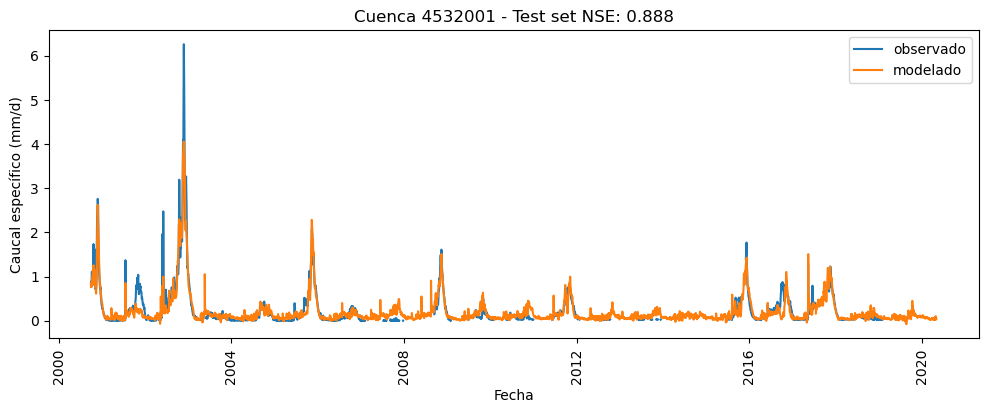
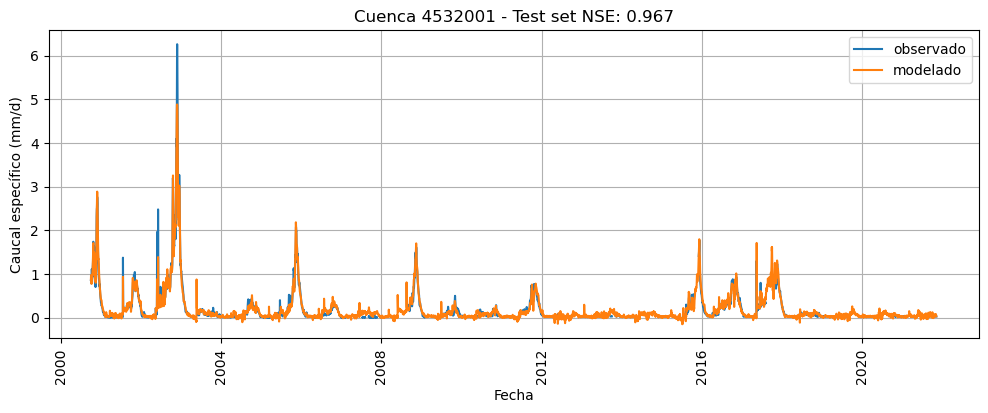
add: combarbala 20 cells

diff --git a/src/LSTM_RR_model.py b/src/LSTM_RR_model.py
@@ -44,7 +44,7 @@ def load_forcing(basin: str) -> Tuple[pd.DataFrame, int]:
     PP=loadDf('pp_basin_79_23.csv').iloc[:,-1]
     Tmax=loadDf('tmaxERA5.csv').iloc[:,-1]
     Tmin=loadDf('tminERA5.csv').iloc[:,-1]
-    idx=pd.date_range('1979-01-02','2020-04-30',freq='D')
+    idx=pd.date_range('1979-01-02','2021-11-05',freq='D')
     idx=idx[idx>='1979-01-02']
     swe=loadDf('SWE_basin_79_23.csv').loc[idx]
     sca=loadDf('SCA_basin_79_23.csv').loc[idx]
@@ -397,7 +397,7 @@ def calc_nse(obs: np.array, sim: np.array) -> float:
 def main():
     #%%
     basin = '4532001' # can be changed to any 8-digit basin id contained in the CAMELS data set
-    hidden_size = 10 # Number of LSTM cells
+    hidden_size = 20 # Number of LSTM cells
     dropout_rate = 0.0 # Dropout rate of the final fully connected Layer [0.0, 1.0]
     learning_rate = 1e-3 # Learning rate used to update the weights
     sequence_length = 365 # Length of the meteorological record provided to the network
@@ -407,7 +407,7 @@ def main():
     ##############
 
     # Training data
-    start_date = pd.to_datetime("1979-01-02", format="%Y-%m-%d")
+    start_date = pd.to_datetime("1989-01-02", format="%Y-%m-%d")
     end_date = pd.to_datetime("2020-04-30", format="%Y-%m-%d")
     ds_train = CamelsTXT(basin, seq_length=sequence_length, period="train", dates=[start_date, end_date])
     tr_loader = DataLoader(ds_train, batch_size=256, shuffle=True)
@@ -423,7 +423,7 @@ def main():
 
     # Test data. We use the feature means/stds of the training period for normalization
     start_date = pd.to_datetime("2000-10-01", format="%Y-%m-%d")
-    end_date = pd.to_datetime("2020-04-30", format="%Y-%m-%d")
+    end_date = pd.to_datetime("2021-11-05", format="%Y-%m-%d")
     ds_test = CamelsTXT(basin, seq_length=sequence_length, period="eval", dates=[start_date, end_date],
                         means=means, stds=stds)
     test_loader = DataLoader(ds_test, batch_size=2048, shuffle=False)
